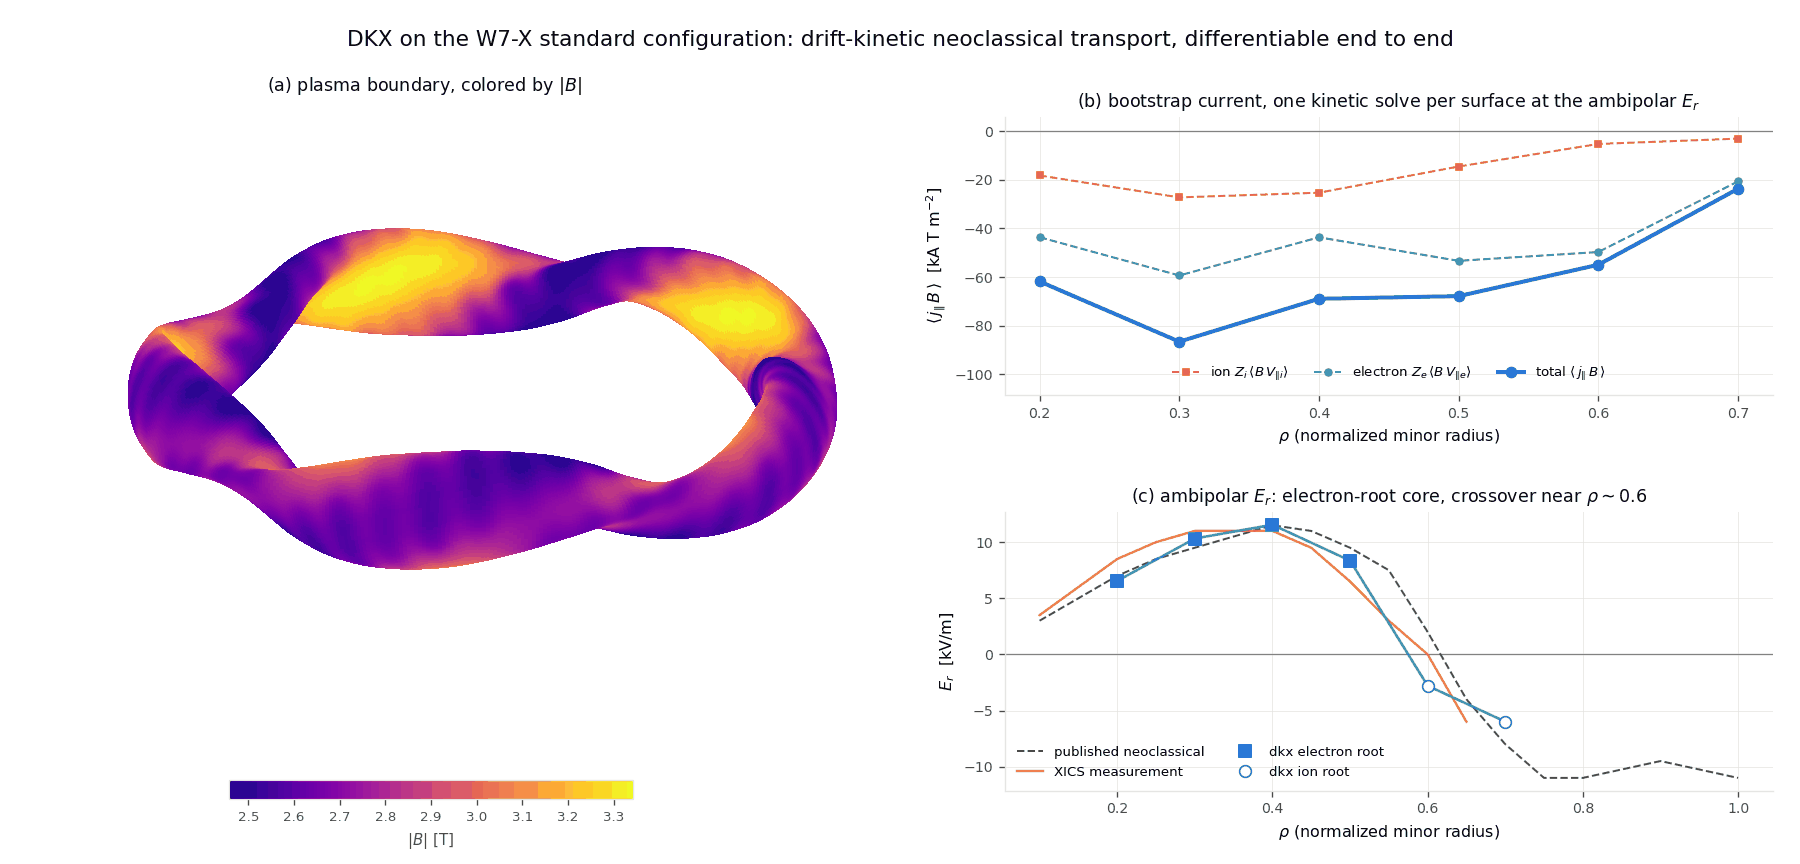
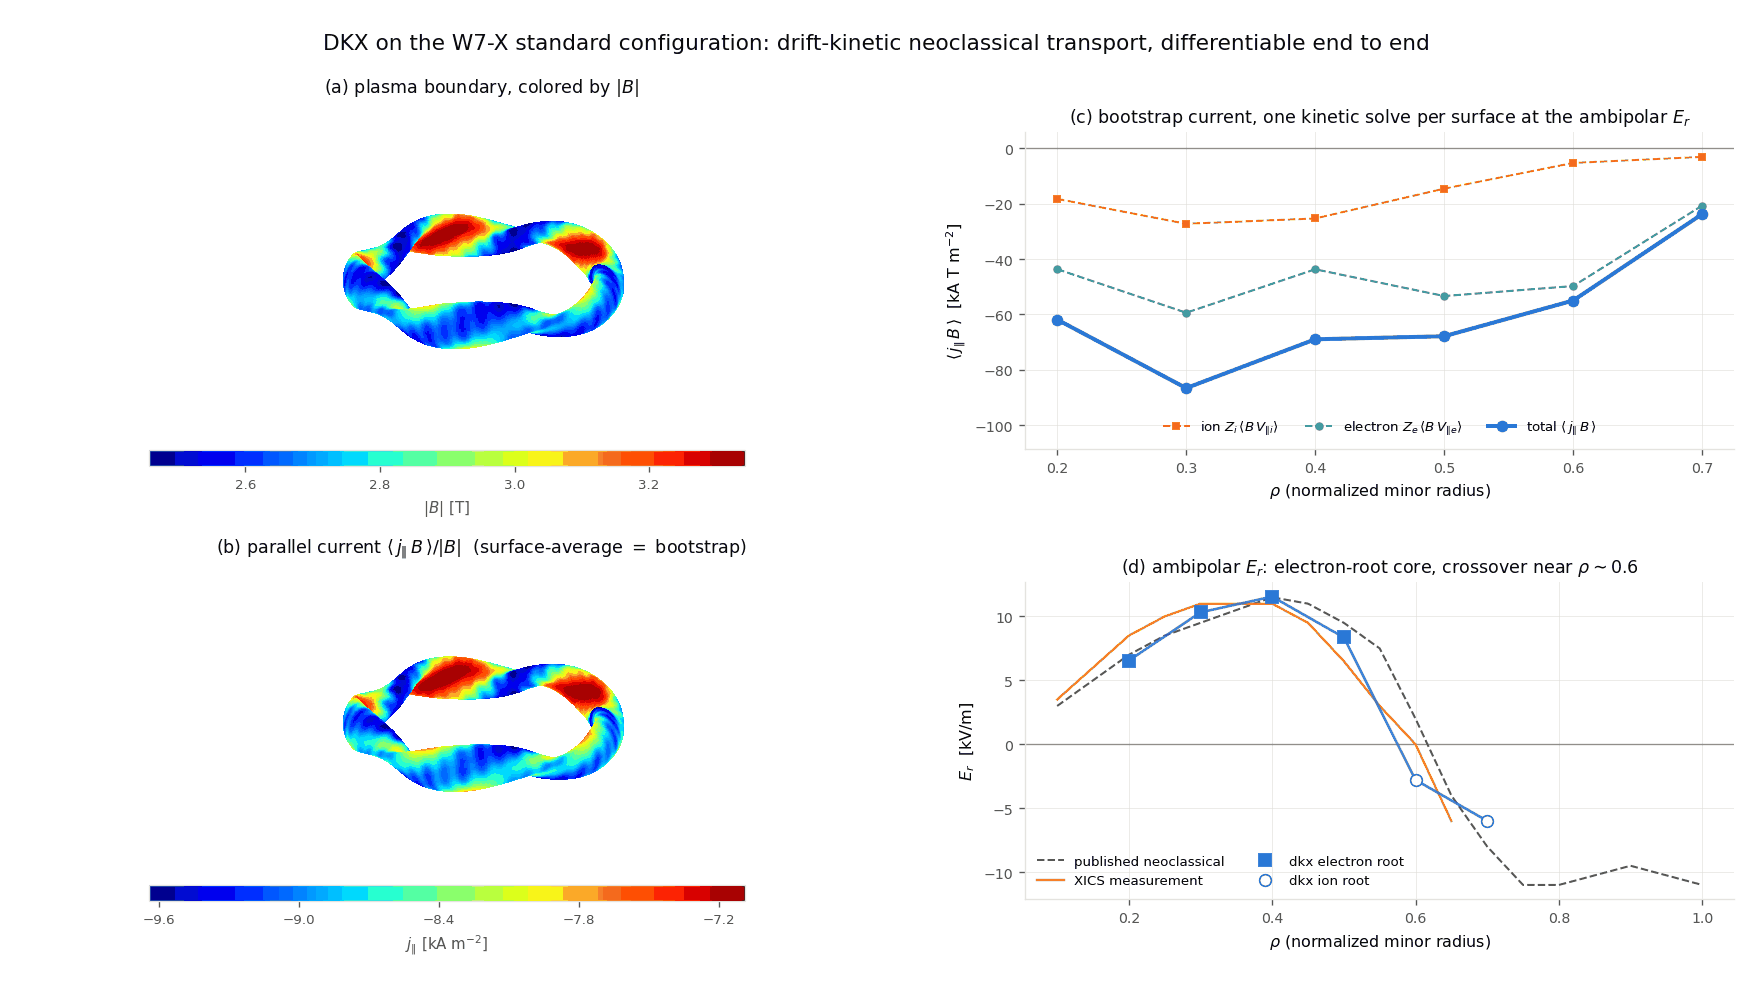
Restructure README hero: stacked |B| and parallel-current W7-X toruses
Split the left half of the W7-X showcase into two stacked 3-D boundaries: the
plasma boundary colored by |B| (top) and by the parallel current density
j_par = <j.B>/|B| (bottom), whose flux-surface average is the bootstrap current.
Both toruses use the jet colormap and carry their own colorbar (|B| in T, j_par
in kA m^-2). j_par takes the outermost cached surface's bootstrap <j.B>
(rho=0.7) from w7x_showcase.json divided by the boundary |B| field, so
<j_par |B|> = <j.B> exactly. The right column (bootstrap profile, ambipolar E_r)
is unchanged. Regenerated entirely from cached data (no kinetic solves).

diff --git a/tools/benchmarks/readme_showcase_w7x.py b/tools/benchmarks/readme_showcase_w7x.py
@@ -1,25 +1,38 @@
 """Generate the README hero figure: a W7-X standard-configuration showcase.
 
-Three panels, all W7-X standard configuration:
-
-``(a)`` the 3-D plasma boundary colored by ``|B|``, evaluated from the Fourier
-surface of ``wout_w7x_standardConfig.nc`` (resolved through
+Four panels in a 2x2 layout, all W7-X standard configuration.  Left column,
+two stacked 3-D plasma boundaries evaluated from the Fourier surface of
+``wout_w7x_standardConfig.nc`` (resolved through
 :func:`dkx.paths.resolve_existing_path`, i.e. ``DKX_EQUILIBRIA_DIRS`` or the
-fetched data cache).
+fetched data cache), both drawn with the ``jet`` colormap:
 
-``(b)`` the bootstrap current profile ``<j.B>(rho)``: one two-species
+``(a)`` the boundary colored by ``|B|``.
+
+``(b)`` the boundary colored by the parallel current density
+``j_par = <j.B> / |B|`` — the total parallel current whose flux-surface
+average is the bootstrap current.  ``<j.B>`` is the flux-surface-averaged
+parallel current of the outermost cached surface (``rho = 0.7``) from
+``w7x_showcase.json``; dividing that constant by the same boundary ``|B|``
+field used in panel (a) gives a field with ``<j_par |B|> = <j.B>`` exactly, so
+its surface average is the bootstrap current.  Units are ``kA m^-2`` (the
+bootstrap ``<j.B>`` is in ``kA T m^-2``; dividing by ``|B|`` in ``T`` removes
+one factor of tesla).
+
+Right column, two line plots:
+
+``(c)`` the bootstrap current profile ``<j.B>(rho)``: one two-species
 (H+ + electron) drift-kinetic solve per flux surface at that surface's
 ambipolar radial electric field, with the per-species ``Z_s FSABFlow_s``
 contributions.  The species profiles, resolution, physics switches, and the
 ambipolar ``E_r`` per surface come from the committed benchmark record
 ``docs/_static/figures/paper_benchmarks/w7x_ambipolar_er.json`` (the Pablant
 2018 CERC discharge case, ``examples/paper_benchmarks/w7x_ambipolar_er.py``),
-so panel (b) is the bootstrap-current output of exactly that validated setup.
+so panel (c) is the bootstrap-current output of exactly that validated setup.
 The SI conversion ``<j.B> = FSABjHat * vBar * nBar * e`` (kA T m^-2 with
 ``vBar = 437695 m/s``, ``nBar = 1e20 m^-3``) is the one documented in
 ``docs/examples.rst``.
 
-``(c)`` the ambipolar ``E_r(rho)`` with every root classified ion/electron,
+``(d)`` the ambipolar ``E_r(rho)`` with every root classified ion/electron,
 replotted directly from the same committed JSON (no recompute) next to the
 published neoclassical and XICS-measured references.
 
@@ -44,6 +57,7 @@ import matplotlib
 matplotlib.use("Agg")
 import matplotlib.pyplot as plt
 import numpy as np
+from matplotlib.ticker import MaxNLocator
 
 REPO_ROOT = Path(__file__).resolve().parents[2]
 OUT_DIR = REPO_ROOT / "docs" / "_static" / "figures" / "readme"
@@ -74,7 +88,17 @@ N_THETA_3D = 240
 N_ZETA_3D = 601
 VIEW_ELEV = 22.0
 VIEW_AZIM = -56.0
-CMAP_3D = "plasma"
+CMAP_3D = "jet"
+
+# Left-column 3-D panels: oversized rects (x0, y0, w, h in figure fraction) that
+# absorb the wide whitespace 3-D axes leave around a flat, wide W7-X boundary,
+# with a title just above and a horizontal colorbar just below each torus.
+TORUS_TOP_RECT = (-0.055, 0.485, 0.66, 0.45)
+TORUS_TOP_TITLE_XY = (0.275, 0.905)
+TORUS_TOP_CBAR_RECT = (0.085, 0.525, 0.34, 0.017)
+TORUS_BOT_RECT = (-0.055, 0.035, 0.66, 0.45)
+TORUS_BOT_TITLE_XY = (0.275, 0.438)
+TORUS_BOT_CBAR_RECT = (0.085, 0.083, 0.34, 0.017)
 
 # --- Palette (shared with readme_figures.py; color follows the code) --------
 BLUE = "#2a78d6"  # dkx
@@ -214,16 +238,25 @@ def _boundary_from_wout() -> tuple[np.ndarray, np.ndarray, np.ndarray, np.ndarra
     return rr * np.cos(ze), rr * np.sin(ze), zz, bmag
 
 
-def _panel_boundary(fig: plt.Figure, gs) -> None:
-    xx, yy, zz, bmag = _boundary_from_wout()
-    ax = fig.add_subplot(gs, projection="3d")
-    norm = plt.Normalize(float(bmag.min()), float(bmag.max()))
+def _add_torus(
+    fig: plt.Figure,
+    rect: tuple[float, float, float, float],
+    xx: np.ndarray,
+    yy: np.ndarray,
+    zz: np.ndarray,
+    field: np.ndarray,
+    title: str,
+    title_xy: tuple[float, float],
+) -> plt.Normalize:
+    """Draw one W7-X boundary torus colored by ``field``; return its ``|B|`` norm."""
+    ax = fig.add_axes(rect, projection="3d")
+    norm = plt.Normalize(float(field.min()), float(field.max()))
     cmap = plt.get_cmap(CMAP_3D)
     ax.plot_surface(
         xx,
         yy,
         zz,
-        facecolors=cmap(norm(bmag)),
+        facecolors=cmap(norm(field)),
         rcount=N_THETA_3D,
         ccount=N_ZETA_3D,
         linewidth=0,
@@ -233,27 +266,26 @@ def _panel_boundary(fig: plt.Figure, gs) -> None:
     ax.set_box_aspect((np.ptp(xx), np.ptp(yy), np.ptp(zz)))
     ax.set_axis_off()
     ax.view_init(elev=VIEW_ELEV, azim=VIEW_AZIM)
-    box = ax.get_position()
-    ax.set_position(
-        [
-            box.x0 - 0.36 * box.width,
-            box.y0 - 0.26 * box.height,
-            1.72 * box.width,
-            1.66 * box.height,
-        ]
-    )
-    fig.text(
-        box.x0 + 0.42 * box.width,
-        0.895,
-        "(a) plasma boundary, colored by $|B|$",
-        fontsize=10.5,
-        color=INK,
-        ha="center",
-    )
-    mappable = plt.cm.ScalarMappable(cmap=cmap, norm=norm)
-    cax = fig.add_axes([box.x0 + 0.13 * box.width, 0.075, 0.60 * box.width, 0.022])
+    fig.text(title_xy[0], title_xy[1], title, fontsize=10.5, color=INK, ha="center")
+    return norm
+
+
+def _add_torus_colorbar(
+    fig: plt.Figure,
+    norm: plt.Normalize,
+    cbar_label: str,
+    cbar_rect: tuple[float, float, float, float],
+) -> None:
+    """Horizontal colorbar for a torus panel.
+
+    Added after both toruses so it draws last and its tick labels are never
+    painted over by the stacked (later-added) 3-D axes above/below it.
+    """
+    mappable = plt.cm.ScalarMappable(cmap=plt.get_cmap(CMAP_3D), norm=norm)
+    cax = fig.add_axes(list(cbar_rect))
     cbar = fig.colorbar(mappable, cax=cax, orientation="horizontal")
-    cbar.set_label("$|B|$ [T]", fontsize=9, color=INK_2)
+    cbar.ax.xaxis.set_major_locator(MaxNLocator(nbins=5))
+    cbar.set_label(cbar_label, fontsize=9, color=INK_2)
     cbar.ax.tick_params(labelsize=8, colors=INK_2)
     cbar.outline.set_edgecolor(GRID)
 
@@ -272,7 +304,7 @@ def _panel_bootstrap(ax: plt.Axes, showcase: dict) -> None:
     ax.set_xlabel("$\\rho$ (normalized minor radius)", fontsize=9.5)
     ax.set_ylabel("$\\langle\\, j_{\\|}\\, B\\,\\rangle$  [kA T m$^{-2}$]", fontsize=9.5)
     ax.set_title(
-        "(b) bootstrap current, one kinetic solve per surface at the ambipolar $E_r$",
+        "(c) bootstrap current, one kinetic solve per surface at the ambipolar $E_r$",
         fontsize=10.5,
         color=INK,
     )
@@ -326,7 +358,7 @@ def _panel_ambipolar_er(ax: plt.Axes, record: dict) -> None:
     ax.set_xlabel("$\\rho$ (normalized minor radius)", fontsize=9.5)
     ax.set_ylabel("$E_r$  [kV/m]", fontsize=9.5)
     ax.set_title(
-        "(c) ambipolar $E_r$: electron-root core, crossover near $\\rho \\sim 0.6$",
+        "(d) ambipolar $E_r$: electron-root core, crossover near $\\rho \\sim 0.6$",
         fontsize=10.5,
         color=INK,
     )
@@ -355,22 +387,53 @@ def main() -> None:
         showcase = compute_bootstrap_profile(record)
         JSON_PATH.write_text(json.dumps(showcase, indent=1) + "\n")
 
-    fig = plt.figure(figsize=(15.0, 7.2), dpi=120)
-    gs = fig.add_gridspec(
+    fig = plt.figure(figsize=(14.6, 8.2), dpi=120)
+
+    # Left column: two stacked 3-D boundaries (|B| over j_par), jet colormap.
+    xx, yy, zz, bmag = _boundary_from_wout()
+    edge = showcase["surfaces"][-1]
+    # Bootstrap <j.B> of the outermost cached surface, in kA T m^-2; dividing by
+    # the boundary |B| [T] gives j_par [kA m^-2] with <j_par |B|> = <j.B>.
+    jboot_edge = float(edge["fsab_jhat"]) * float(showcase["jboot_ka_per_hat"])
+    jpar = jboot_edge / bmag
+    norm_b = _add_torus(
+        fig,
+        TORUS_TOP_RECT,
+        xx,
+        yy,
+        zz,
+        bmag,
+        "(a) plasma boundary, colored by $|B|$",
+        TORUS_TOP_TITLE_XY,
+    )
+    norm_j = _add_torus(
+        fig,
+        TORUS_BOT_RECT,
+        xx,
+        yy,
+        zz,
+        jpar,
+        "(b) parallel current $\\langle\\, j_{\\|}\\, B\\,\\rangle / |B|$"
+        "  (surface-average $=$ bootstrap)",
+        TORUS_BOT_TITLE_XY,
+    )
+    # Colorbars after both toruses so neither 3-D axes overpaints their labels.
+    _add_torus_colorbar(fig, norm_b, "$|B|$ [T]", TORUS_TOP_CBAR_RECT)
+    _add_torus_colorbar(fig, norm_j, "$j_{\\|}$ [kA m$^{-2}$]", TORUS_BOT_CBAR_RECT)
+
+    # Right column: bootstrap profile over ambipolar E_r (unchanged content).
+    gs_r = fig.add_gridspec(
         2,
-        2,
-        width_ratios=(1.08, 1.0),
-        left=0.035,
-        right=0.985,
+        1,
+        left=0.585,
+        right=0.99,
         top=0.865,
         bottom=0.085,
         hspace=0.42,
-        wspace=0.14,
     )
-    _panel_boundary(fig, gs[:, 0])
-    ax_boot = fig.add_subplot(gs[0, 1])
+    ax_boot = fig.add_subplot(gs_r[0])
     _panel_bootstrap(ax_boot, showcase)
-    ax_er = fig.add_subplot(gs[1, 1])
+    ax_er = fig.add_subplot(gs_r[1])
     _panel_ambipolar_er(ax_er, record)
     fig.suptitle(
         "DKX on the W7-X standard configuration: drift-kinetic neoclassical transport, "

diff --git a/README.md b/README.md
@@ -14,15 +14,16 @@ for stellarators and tokamaks, on CPU or GPU. Every output is pinned
 field-by-field against SFINCS Fortran v3, and the whole solve is differentiable:
 `jax.grad` of any output with respect to any input, by implicit differentiation.
 
-![W7-X standard configuration: 3-D boundary |B|, bootstrap current profile, and ambipolar radial electric field, all from DKX kinetic solves](docs/_static/figures/readme/w7x_showcase.png)
+![W7-X standard configuration: the 3-D boundary colored by |B| and by parallel current, the bootstrap current profile, and the ambipolar radial electric field, all from DKX kinetic solves](docs/_static/figures/readme/w7x_showcase.png)
 
-*The W7-X standard configuration, solved by DKX: the plasma boundary colored by
-`|B|`, the bootstrap current profile built from one two-species kinetic solve
-per flux surface at its ambipolar electric field, and the ambipolar `E_r` — an
-electron-root core crossing to the ion root near mid-radius — against published
-references [Pablant et al., *Phys. Plasmas* 25, 022508 (2018)]. Every curve is
-a `dkx` kinetic-solve output, differentiable end to end
-(`python tools/benchmarks/readme_showcase_w7x.py`).*
+*The W7-X standard configuration, solved by DKX. The plasma boundary is drawn
+twice — colored by `|B|` and by the parallel current density `<j.B>/|B|`, whose
+flux-surface average is the bootstrap current — beside the bootstrap-current
+profile, one two-species kinetic solve per flux surface at its ambipolar
+electric field, and the ambipolar `E_r`, an electron-root core crossing to the
+ion root near mid-radius, against published references [Pablant et al.,
+*Phys. Plasmas* 25, 022508 (2018)]. Every field is a `dkx` kinetic-solve output,
+differentiable end to end (`python tools/benchmarks/readme_showcase_w7x.py`).*
 
 ## Install
 
